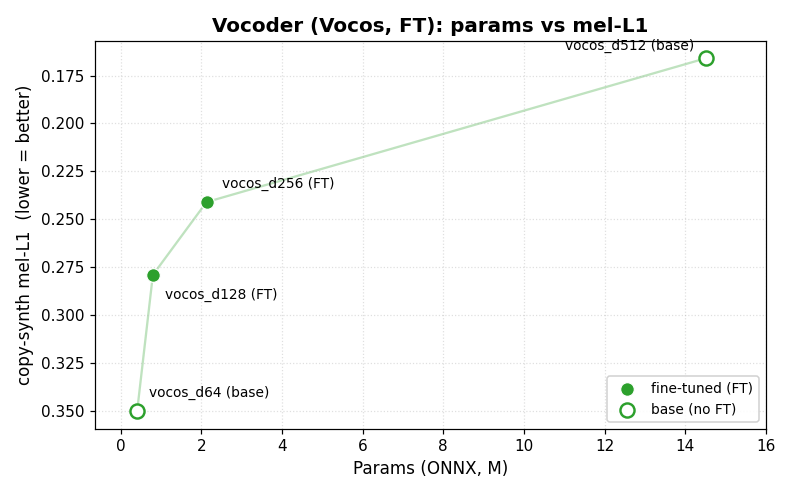
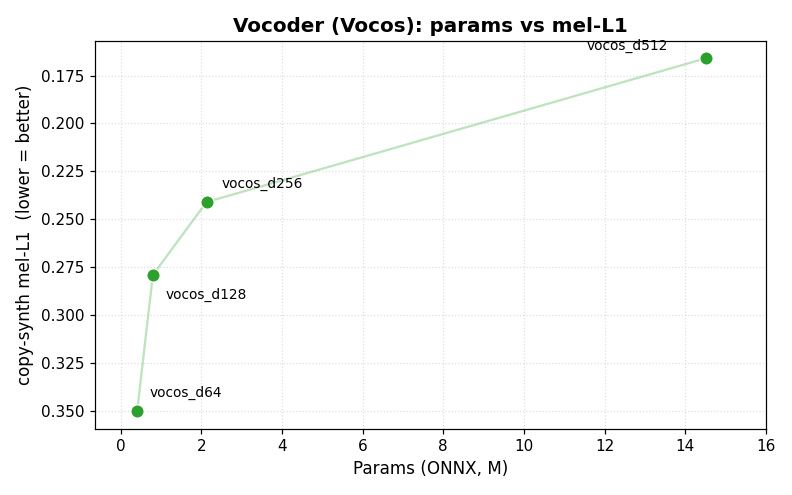
Add files via upload

diff --git a/docs/index.html b/docs/index.html
@@ -47,7 +47,7 @@ figure.plot figcaption { color: #888; font-size: 0.85rem; margin-top: 4px; }
 </head>
 <body>
 <h1>MiniSpeech スペクトログラム  (encoder × vocoder = 24)</h1>
-<p class="repo">📦 リポジトリ: <a href="https://github.com/nnn112358/minispeech_onnx" target="_blank" rel="noopener">github.com/nnn112358/minispeech_onnx</a></p>
+<p class="repo">📦 リポジトリ: <a href="https://github.com/nnn112358/minispeech_demo" target="_blank" rel="noopener">github.com/nnn112358/minispeech_demo</a></p>
 <p class="desc">
 MiniSpeechで「おはようございます、こんにちは、こんばんは、おやすみなさい。」を、全 6 encoder × 4 vocoder
 = 24 通りで合成した mel→audio の STFT スペクトログラム(CPU, fp16, magma, dB, 0–11kHz)。
